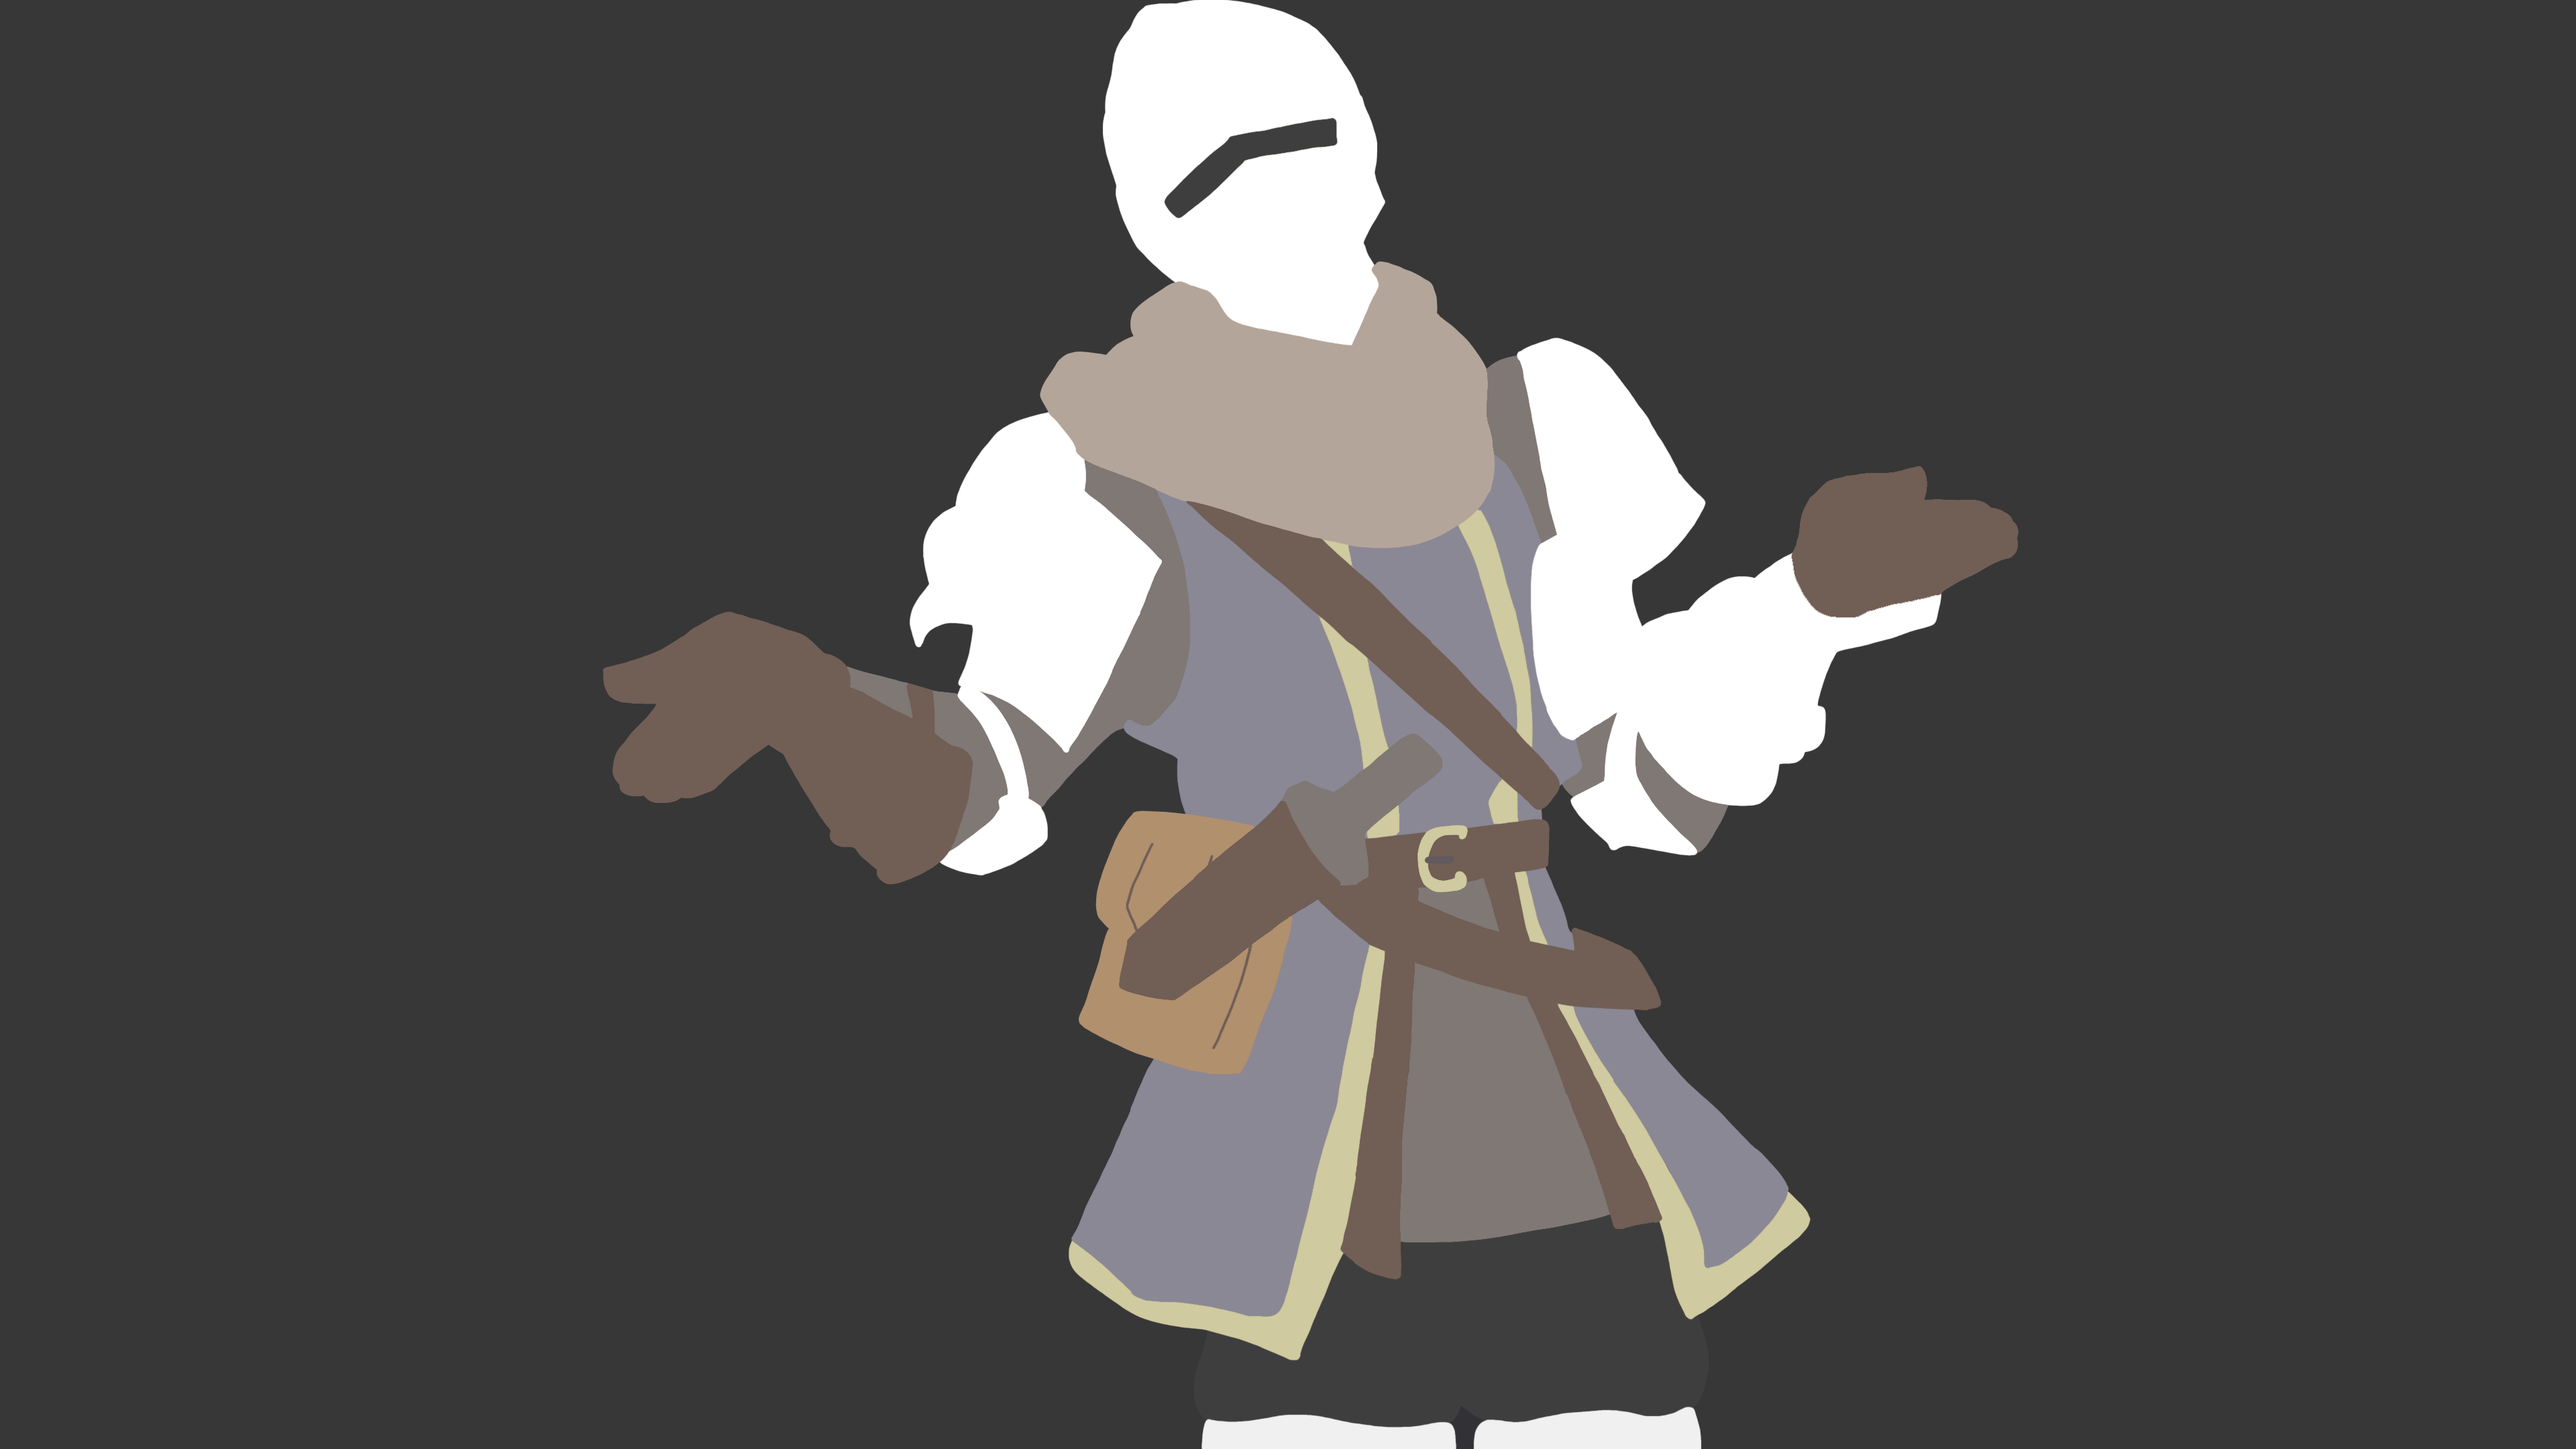
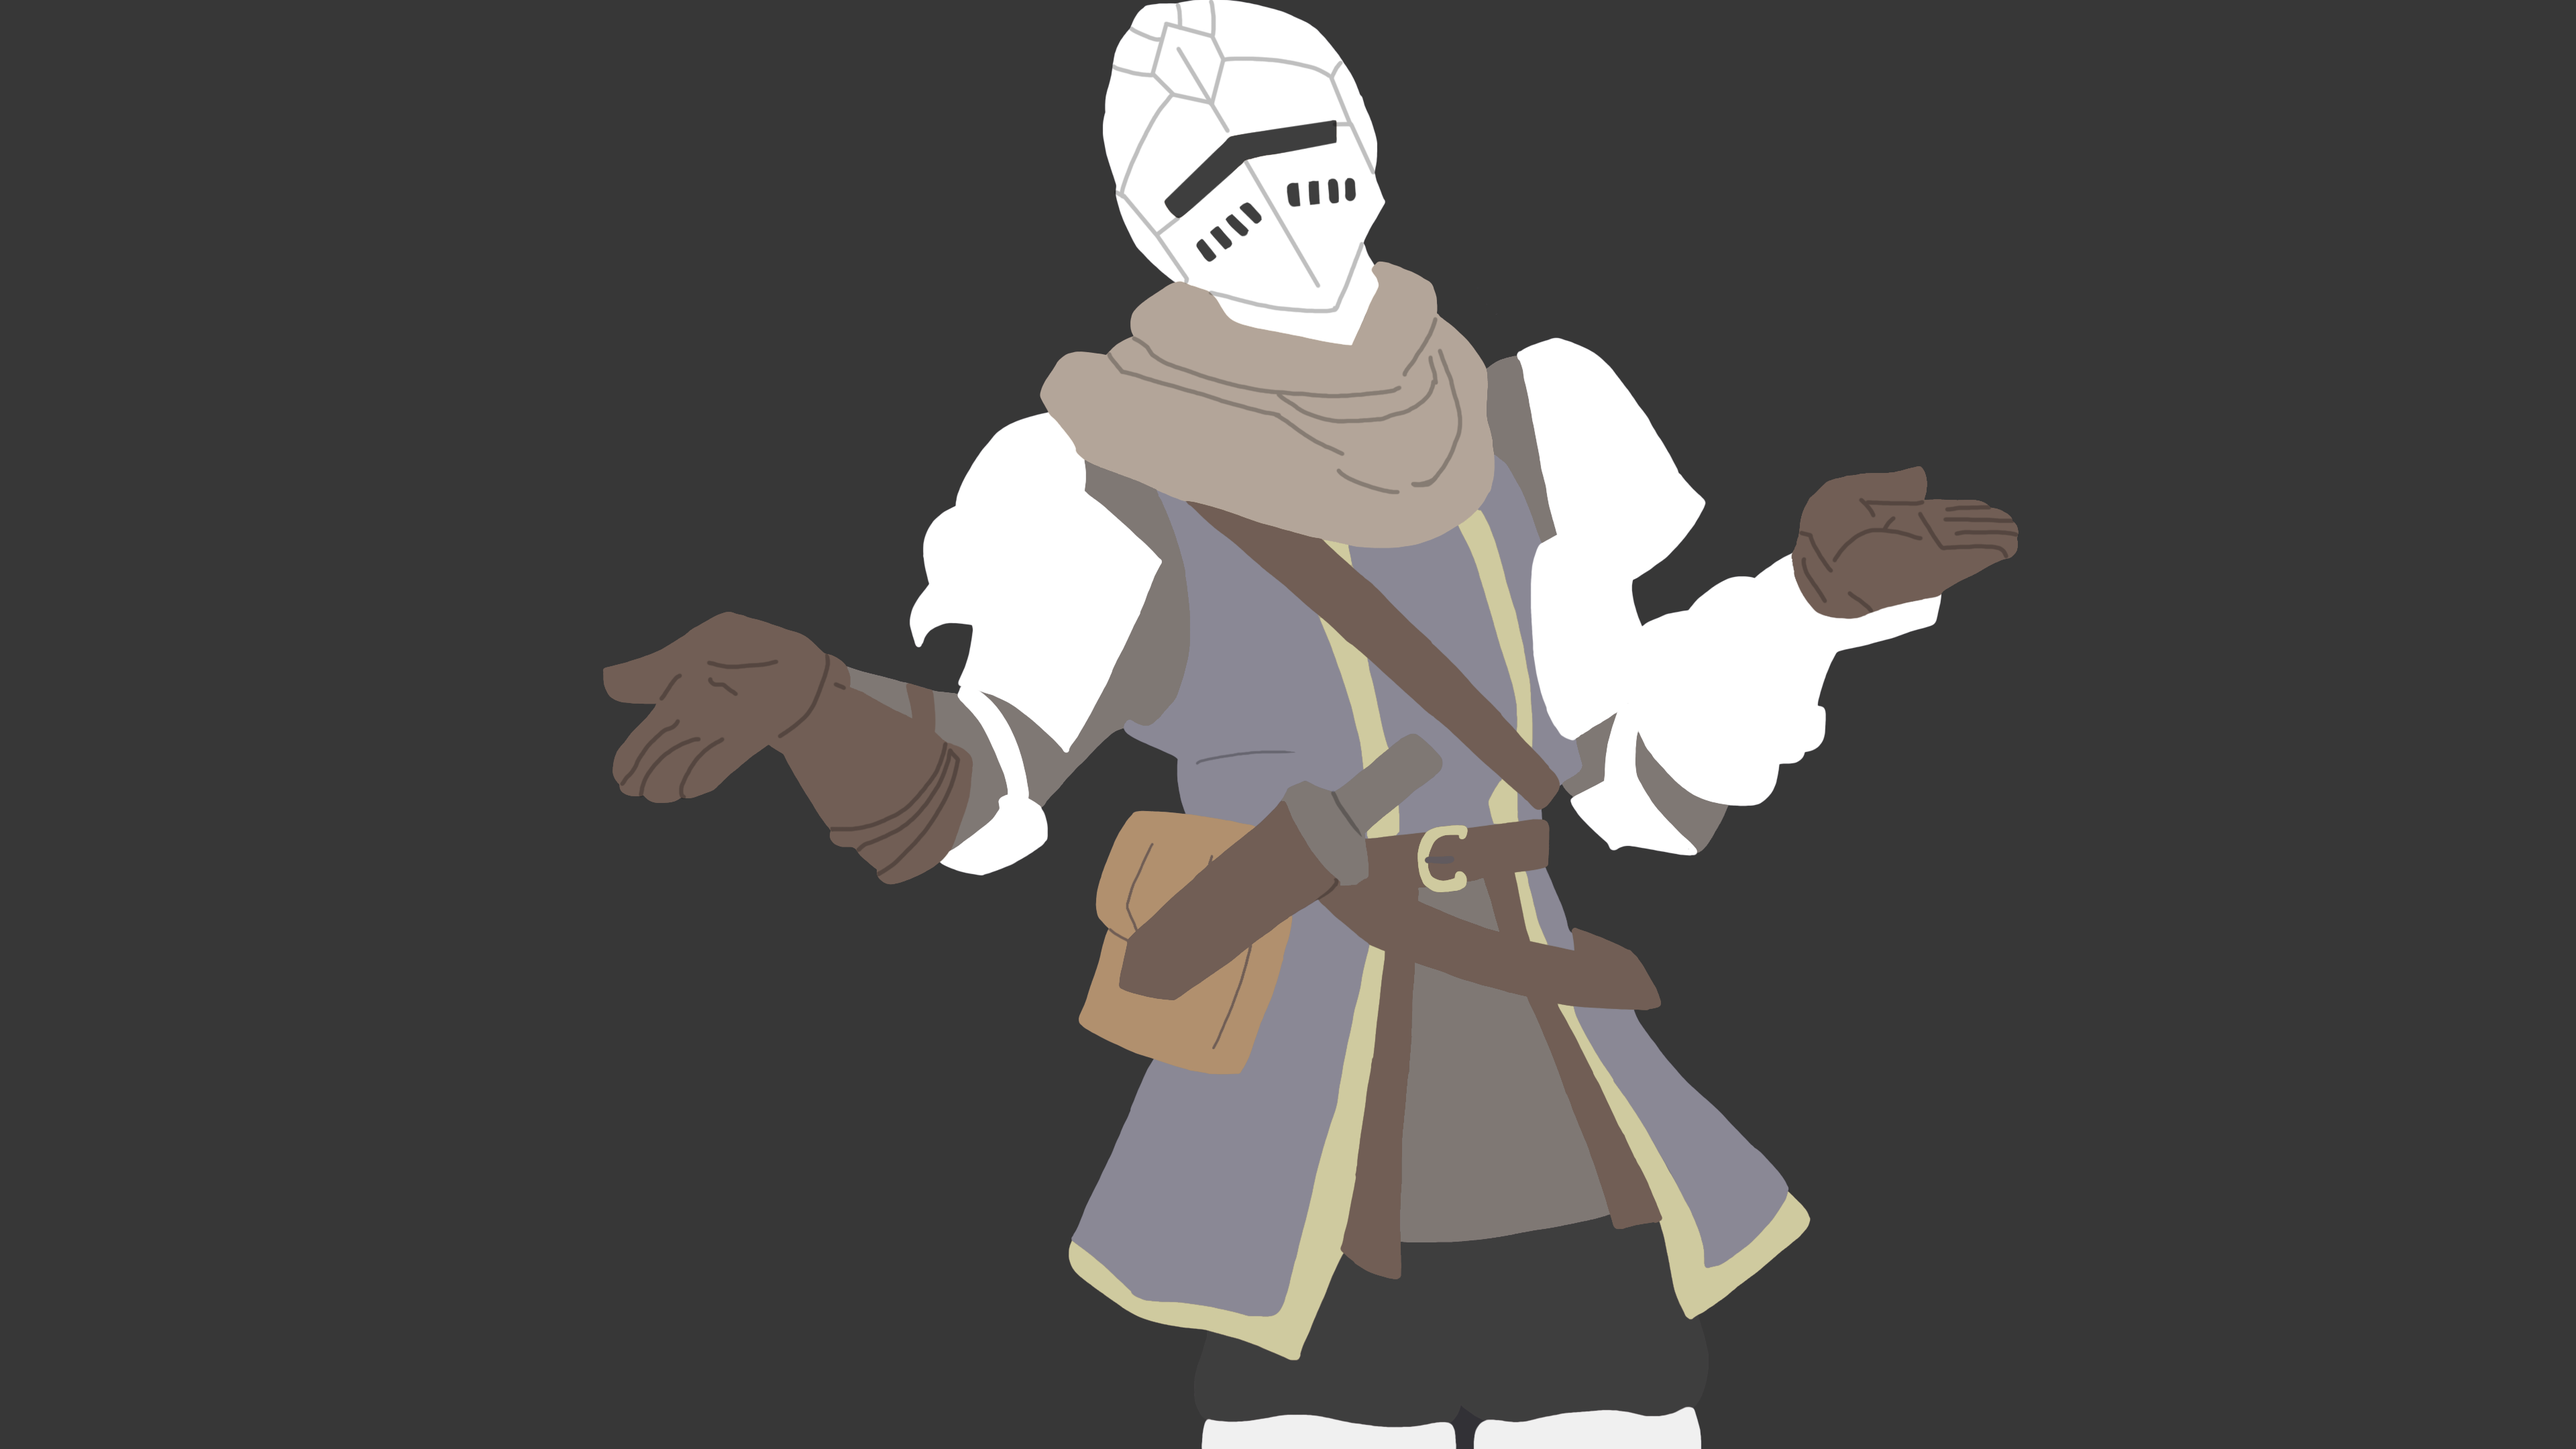
art update
hi!

diff --git a/index.html b/index.html
@@ -37,10 +37,9 @@
            <p>Welcome to my website, all navigation can be handled to the left</p>
 
            <h2>News:</h2>
+					 <p><a href="art.html">Drawing Updates on My Art! November 14th 2016</a></p>
 					<p><a href="https://soundcloud.com/tacticaltarkus/coc-ch2">New audiobook chapter released! October 19th  2016</a></p>
-					 <p><a href="art.html">New drawings on My Art! October 8th 2016</a></p>
 					 <p><a href="https://soundcloud.com/tacticaltarkus/cognitive-dissonance-college-infantilization">New discussion episode released! September 28th  2016</a></p>
-					 <p><a href="https://soundcloud.com/tacticaltarkus/cognitive-dissonance-equality-vs-equity">New discussion episode released! September 25th 2016</a></p>
 
            <h4>I recently rewrote the entire website from the ground up, so some things might be off.
              Please report suggestions and issues to me so that I can improve the website</h4>
